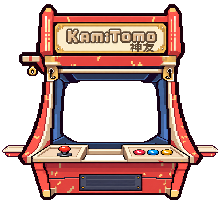
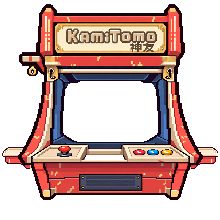
The Arcade's side trays thicker and a little lower, as if nearer (the user: a bit more in front, bigger): their cream top and red underside rows repeated on the art's own grid

Changed region(s): [[0.0, 0.6545, 0.1364, 0.7909], [0.8455, 0.6545, 1.0, 0.7636]]

diff --git a/tools/art/arcade_trays_behind.py b/tools/art/arcade_trays_behind.py
@@ -10,13 +10,17 @@ import numpy as np
 from PIL import Image
 
 SRC = "docs/mockups/hokora_homes/"
-DROP = 2                                   # rows: the trays' top (143) onto the panel's top edge (145)
+DROP = 4                                   # rows: the trays' top (143) a little below the panel's top edge (145)
+# thicker, as if nearer (the user: "a bit more in front, to look bigger"): its rows repeated, on the art's
+# own grid (the cream top 146-149 -> 6 rows, the red underside 151-152 -> 5 rows)
+ROWS = list(range(0, 147)) + [147, 147, 148, 148] + [149, 150] + [151, 151, 152, 152, 152] + list(range(153, 220))
 
 trays = np.array(Image.open(SRC + "v6_3/arcade_cabinet/front.png").convert("RGBA"))
 cabinet = Image.open(SRC + "v6_2/arcade_cabinet/front.png").convert("RGBA")
 changed = (trays != np.array(cabinet)).any(-1)
 layer = np.zeros_like(trays)
 layer[changed] = trays[changed]
+layer = layer[ROWS][:220]
 layer = np.roll(layer, DROP, axis=0)
 out = Image.fromarray(layer, "RGBA")
 out.alpha_composite(cabinet)
